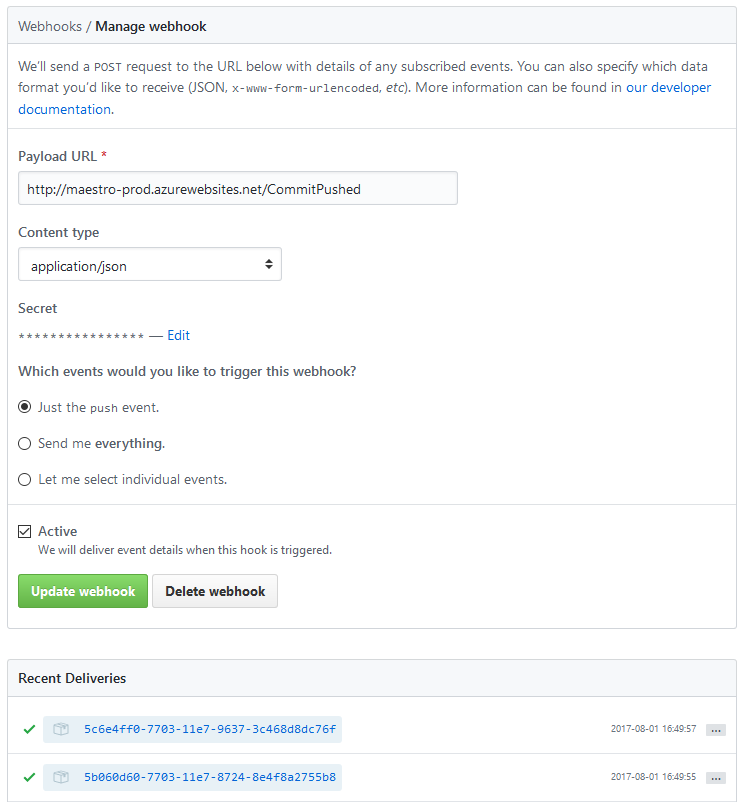
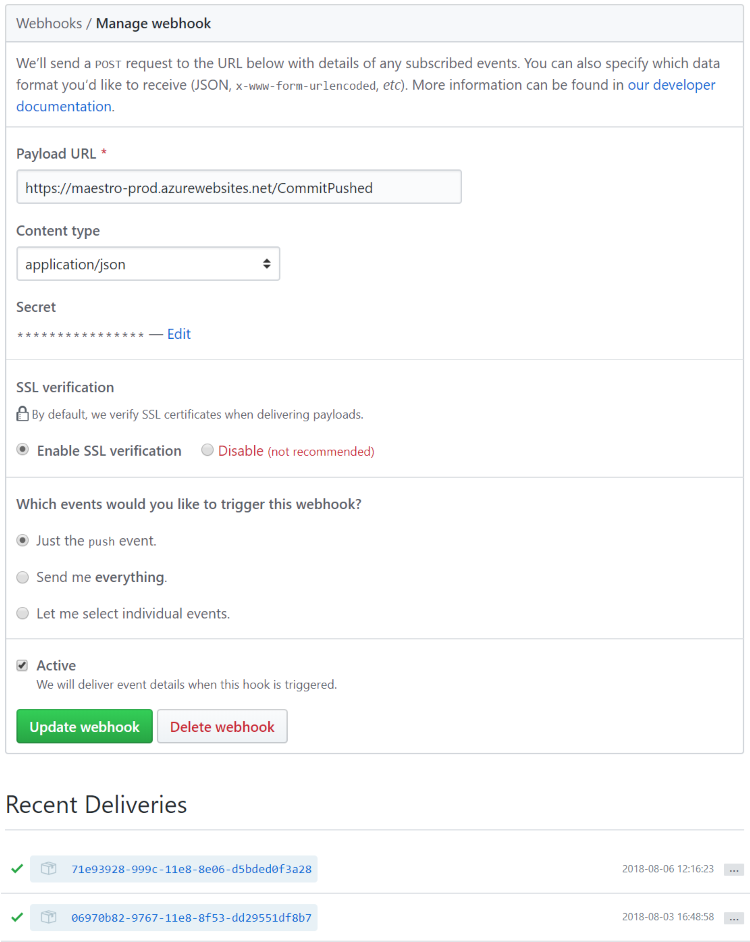
Update Maestro webhooks doc to specify using https instead of http

diff --git a/web-hooks.md b/web-hooks.md
@@ -20,7 +20,7 @@ Example web hooks page url: https://github.com/dotnet/versions/settings/hooks/
 
 ## Web hook configuration
 
- * Payload URL: `http://maestro-prod.azurewebsites.net/CommitPushed`
+ * Payload URL: `https://maestro-prod.azurewebsites.net/CommitPushed`
  * Content Type: `application/json`
  * Secret: [Maestro-WebhookSecretToken on EngKeyVault](https://ms.portal.azure.com/#asset/Microsoft_Azure_KeyVault/Secret/https://engkeyvault.vault.azure.net/secrets/Maestro-WebhookSecretToken/e6b838f3a9ce420d8ef3f9bf97047020)
  * "Which events would you like to trigger this webhook?": `Just the push event.`
